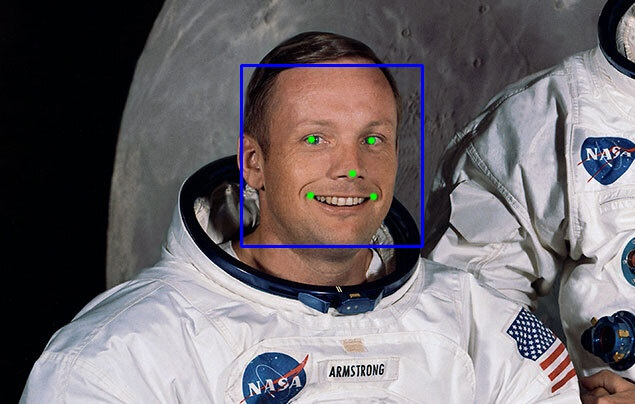
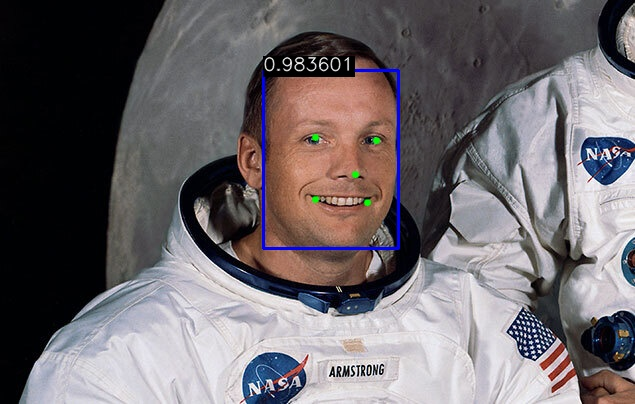
Added face score to landmark detection images

diff --git a/cpp_sdk/landmark_detection/draw_landmarks_save_images/src/main.cpp b/cpp_sdk/landmark_detection/draw_landmarks_save_images/src/main.cpp
@@ -10,6 +10,18 @@ namespace fs = std::experimental::filesystem;
 // Return a list of all the files in a directory
 std::vector<std::string> getFilesInDir(const std::string& path);
 
+// Utility function for drawing the label on our image
+void setLabel(cv::Mat& im, const std::string label, const cv::Point & origin) {
+    const int font = cv::FONT_HERSHEY_SIMPLEX;
+    const double scale = 0.6;
+    const int thickness = 1;
+    int baseline = 0;
+
+    cv::Size text = cv::getTextSize(label, font, scale, thickness, &baseline);
+    cv::rectangle(im, origin + cv::Point(0, baseline), origin + cv::Point(text.width, -text.height), CV_RGB(0,0,0), cv::FILLED);
+    cv::putText(im, label, origin, font, scale, CV_RGB(255,255,255), thickness, cv::LINE_AA);
+}
+
 int main() {
     Trueface::ConfigurationOptions options;
     options.smallestFaceHeight = 30;
@@ -55,9 +67,6 @@ int main() {
 
         // Display the landmark locations and bounding box on the image
         for (const auto& landmarks: landmarksVec) {
-            // Only use the landmarks / bounding box if the score is above 0.90
-            if (landmarks.score < 0.90)
-                continue;
 
             // Draw a rectangle using the top left and bottom right coordinates of the bounding box
             cv::Point topLeft(landmarks.topLeft.x, landmarks.topLeft.y);
@@ -70,6 +79,9 @@ int main() {
                 cv::Point p(landmark.x, landmark.y);
                 cv::circle(image, p, 1, cv::Scalar(0, 255, 0), 3, cv::LINE_AA);
             }
+
+            // Draw the face score onto the face
+            setLabel(image, std::to_string(landmarks.score), cv::Point(landmarks.topLeft.x, landmarks.topLeft.y));
         }
 
         // Write the image to disk

diff --git a/cpp_sdk/landmark_detection/draw_landmarks_save_images/README.md b/cpp_sdk/landmark_detection/draw_landmarks_save_images/README.md
@@ -1,7 +1,7 @@
 # Trueface SDK C++ Sample App
 ## Landmark Detection - Draw Landmarks and Save Images
 This sample app demonstrates how to detect facial landmarks and bounding boxes using the SDK.
-Images are loaded from a provided directory. The facial landmarks are drawn onto the images, then the images are saved to the build directory. 
+Images are loaded from a provided directory. The facial landmarks and face scores are drawn onto the images, then the images are saved to the build directory. 
 
 # Demo
 ![alt text](./demo_images/family_landmarks.jpg)
